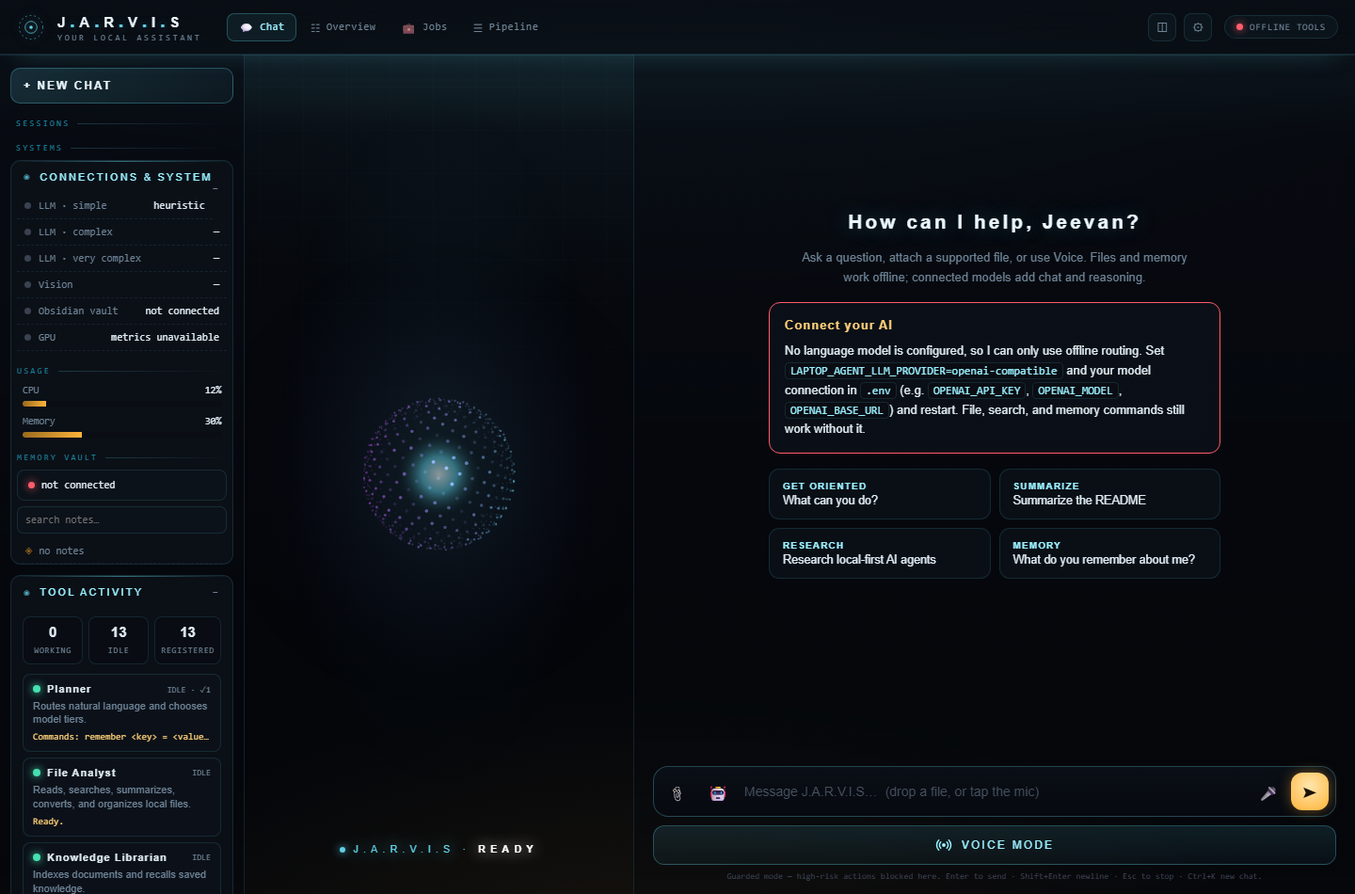
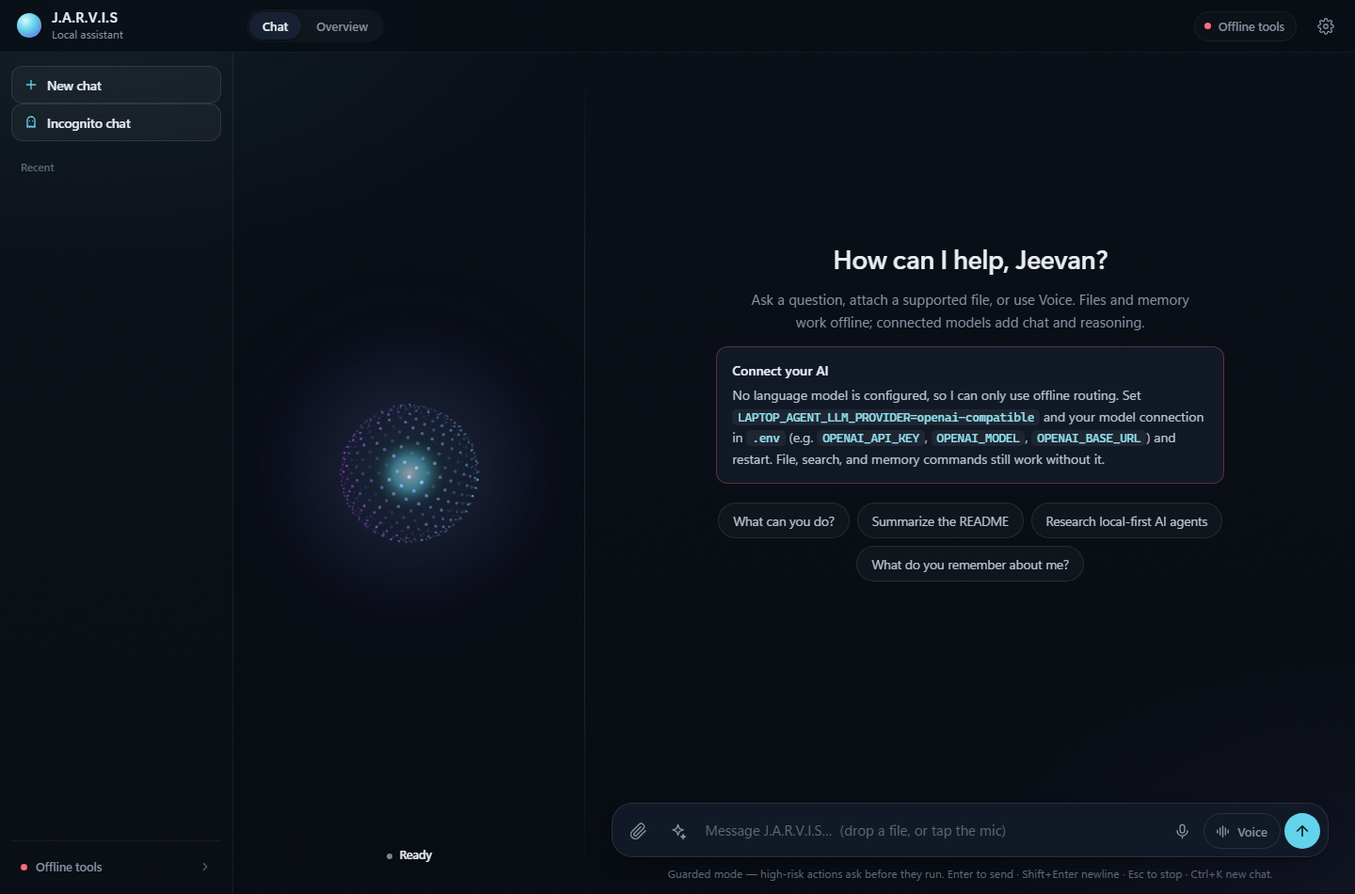
Stop the reply the moment you speak (#97)
Reported: saying "stop", or asking something else while J.A.R.V.I.S is speaking, does not
stop it. Two independent faults, both confirmed by driving the live page.

1. Talking could not interrupt AT ALL on this setup. `bargeStart` returned immediately
   whenever `useServerStt()` was true, and `setSttEngine` turns server STT on by default
   as soon as the server has an engine - which it does here (riva:parakeet). Server STT
   records rather than running the browser recognizer, so nothing was listening while we
   spoke. The gear note even promised "it cannot hear itself. Press Space to cut in."

   `serverBargeStart` holds the microphone open with echo cancellation while we speak,
   spends the first frames learning how loud our own output leaks through, and treats
   220ms of sustained sound above max(0.045, floor*2.2) as the user starting to talk. The
   capture keeps running through the interruption and is transcribed as the next turn, so
   the words said before the trigger are not lost - re-opening the mic swallowed them. On
   trigger it cancels speech inline rather than calling stopSpeaking(), which would tear
   down the very capture still recording the sentence. It also gives the pywebview window
   spoken barge-in, which it never had - there is no Web Speech API there.

2. Stopping stopped one sentence, not the answer. `stopSpeaking()` cleared the queue, but
   the turn was still streaming and every later `tts` event was enqueued and spoken.
[…]

diff --git a/src/laptop_agent/webui_page.py b/src/laptop_agent/webui_page.py
@@ -1549,8 +1549,10 @@ PAGE = r"""<!doctype html>
     let reply='', streamed='';
     const t0=performance.now(); let tFirst=0;
     currentAbort=new AbortController();currentRequest=crypto.randomUUID();
+    let myEpoch=ttsEpoch;                                // this turn's speech; a stop invalidates it
     try{
       const speakStream=voiceActive; if(speakStream)voiceTurnReset();
+      myEpoch=ttsEpoch;
       const r=await fetch('/api/stream',{method:'POST',headers:{'Content-Type':'application/json','X-Jarvis-Request':currentRequest},signal:currentAbort.signal,body:JSON.stringify({command:text,attachments:sent.map(a=>a.path),history,voice:speakStream})});
       if(!r.ok)throw new Error((await r.json()).message||'Request failed');
       const reader=r.body.getReader(), dec=new TextDecoder(); let buf='', done=null;
@@ -1563,7 +1565,7 @@ PAGE = r"""<!doctype html>
           let ev; try{ev=JSON.parse(line.slice(5).trim());}catch(e){continue;}
           if(ev.type==='token'){if(!tFirst)tFirst=performance.now();if(speakStream&&!streamed)vmark('reply');streamed+=ev.text;md.innerHTML=mdToHtml(streamed);chat.scrollTop=chat.scrollHeight;}
           else if(ev.type==='reset'){streamed='';md.innerHTML='';ttsQueue=[];}
-          else if(ev.type==='tts'){if(speakStream)enqueueTTS(ev.text);}
+          else if(ev.type==='tts'){if(speakStream&&myEpoch===ttsEpoch)enqueueTTS(ev.text);}
           else if(ev.type==='approval'){showApproval(ev.request);}
           else if(ev.type==='done'){if(speakStream)vmark('done');done=ev;}
         }
@@ -1589,7 +1591,7 @@ PAGE = r"""<!doctype html>
       if(err&&err.name==='AbortError'){reply=streamed;setMd(md,streamed||'_(stopped)_');const ss=s;if(ss&&streamed){ss.msgs.push({role:'bot',text:streamed,at:Date.now()});saveSessions();}}
       else{md.innerHTML='';node.classList.add('err');md.textContent='Connection error: '+err;}
     }
-    finally{currentAbort=null;currentRequest=null;setBusy(false);ta.focus();loadAgents();if(voiceActive)voiceTurnDone(reply);}
+    finally{currentAbort=null;currentRequest=null;setBusy(false);ta.focus();loadAgents();if(voiceActive)voiceTurnDone(reply,myEpoch);}
     return reply;
   }
 
@@ -2108,10 +2110,10 @@ PAGE = r"""<!doctype html>
   // API, so voice records audio and uses the server (/api/transcribe + /api/tts).
   const NATIVE=location.search.indexOf('app=1')>=0;
   // Server speech: record here, transcribe on the server (hosted Parakeet ~1s, or a local
-  // engine). More accurate than the browser recognizer and it cannot hear the reply,
-  // because the microphone is only open while we choose to record — but it gives up
-  // spoken barge-in, so Space and Interrupt are how you cut in. Off means the browser's
-  // own recognizer, which is flakier but can be interrupted by voice.
+  // engine). More accurate than the browser recognizer. It has no recognizer running while
+  // we speak, so spoken barge-in works on microphone *level* instead (serverBargeStart):
+  // the mic stays open with echo cancellation and sustained sound above our own leakage
+  // cuts the reply off. Space and Interrupt remain the guaranteed manual fallback.
   let typeAnim=true;
   try{typeAnim=localStorage.getItem('jarvis_typeanim')!=='off';}catch(e){}
   let sttServer=false, sttEngine=null;
@@ -2133,7 +2135,7 @@ PAGE = r"""<!doctype html>
     const note=document.getElementById('sttNote');
     if(note)note.textContent=NATIVE?'The app window always transcribes on the server.'
       :!sttEngine?'No server engine installed — using the browser recognizer.'
-      :sttServer?(sttEngine+' — accurate, and it cannot hear itself. Press Space to cut in.')
+      :sttServer?(sttEngine+' — accurate. Just start talking to cut in, or press Space.')
       :(sttEngine+' available. The browser recognizer is flakier but can be interrupted by voice.');
   }
   (function(){
@@ -2173,9 +2175,14 @@ PAGE = r"""<!doctype html>
   let recognizing=false, speaking=false;
   // streaming speech: sentences arrive as `tts` events mid-generation and are spoken
   // one at a time so the first sentence plays while the rest is still being written.
-  let ttsQueue=[], streamComplete=false, spokeAny=false;
+  // Bumped every time speech is stopped. A turn that is still streaming keeps sending
+  // `tts` events, and clearing the queue does not stop the next one arriving: pressing
+  // Space silenced the current sentence and then the reply carried straight on with the
+  // next. An event from a turn that was interrupted is dropped rather than spoken.
+  let ttsQueue=[], streamComplete=false, spokeAny=false, ttsEpoch=0;
   function voiceTurnReset(){ttsQueue=[];streamComplete=false;spokeAny=false;speaking=false;}   // no cancel(): Chrome drops the next speak() if cancel() ran just before it
-  function voiceTurnDone(reply){
+  function voiceTurnDone(reply,epoch){
+    if(epoch!==undefined&&epoch!==ttsEpoch)return;        // this turn was interrupted; do not speak its reply
     streamComplete=true;
     if(!spokeAny){ if(reply){enqueueTTS(reply);} else { afterTurn(); } }   // no streamed sentences (e.g. a tool result) — speak the whole reply
     else pumpTTS();                                                        // resume check in case the queue already drained
@@ -2187,7 +2194,7 @@ PAGE = r"""<!doctype html>
     if(!ttsQueue.length){if(streamComplete)afterTurn();return;}
     speakChunk(ttsQueue.shift());
   }
-  function afterTurn(){if(voiceActive)setTimeout(()=>{if(voiceActive&&!speaking&&!ttsQueue.length)listen();},500);else setCore('idle');}  // echo-guard delay
+  function afterTurn(){bargeStop();if(voiceActive)setTimeout(()=>{if(voiceActive&&!speaking&&!ttsQueue.length)listen();},500);else setCore('idle');}  // echo-guard delay; release the barge mic before listening reopens it
   // What is actually worth saying out loud. A picture, a link target or a code block has
   // nothing speakable in it, and reading a URL aloud used to feed a garbled "slash api
   // slash image question mark name equals…" back into the microphone — which the echo
@@ -2244,9 +2251,96 @@ PAGE = r"""<!doctype html>
     return true;
   }
   function bargeReset(){bargeOff=false;bargeCount=0;bargeWindow=performance.now();}
-  function bargeStop(){if(barge){try{barge.onresult=barge.onerror=barge.onend=null;barge.abort();}catch(e){}barge=null;}}
+  function bargeStop(){if(barge){try{barge.onresult=barge.onerror=barge.onend=null;barge.abort();}catch(e){}barge=null;}serverBargeStop();}
+
+  // --- barge-in when speech is transcribed on the server -----------------------------
+  // Server STT records rather than running the browser recognizer, so there is no
+  // recognizer listening while we speak and nothing could interrupt by voice at all —
+  // `bargeStart` used to return immediately whenever `useServerStt()` was true, which is
+  // the default as soon as the server has an engine. Listen for *energy* instead: hold the
+  // microphone open with echo cancellation while J.A.R.V.I.S talks, learn how loud our own
+  // output still leaks through, and treat sustained sound well above that as the user
+  // starting to speak. The capture keeps running through the interruption, so the words
+  // said before the trigger are transcribed too — otherwise re-opening the microphone
+  // swallowed the first half of the sentence.
+  let sBarge=null;
+  function serverBargeStop(){
+    if(!sBarge)return;
+    const s=sBarge; sBarge=null;
+    try{s.proc.onaudioprocess=null;s.proc.disconnect();}catch(e){}
+    try{s.src.disconnect();}catch(e){}
+    try{s.ac.close();}catch(e){}
+    try{s.stream.getTracks().forEach(t=>t.stop());}catch(e){}
+  }
+  async function serverBargeStart(){
+    if(sBarge||!voiceActive||bargeOff||!navigator.mediaDevices)return;
+    const generation=voiceGeneration;
+    let stream;
+    try{stream=await navigator.mediaDevices.getUserMedia({audio:{channelCount:1,echoCancellation:true,noiseSuppression:true,autoGainControl:true}});}
+    catch(e){return;}                                    // no microphone: Space and Interrupt still cut in
+    if(!voiceActive||generation!==voiceGeneration||!speaking){stream.getTracks().forEach(t=>t.stop());return;}
+    let ac;
+    try{ac=new (window.AudioContext||window.webkitAudioContext)();}
+    catch(e){stream.getTracks().forEach(t=>t.stop());return;}
+    const src=ac.createMediaStreamSource(stream), proc=ac.createScriptProcessor(4096,1,1), sink=ac.createGain();
+    sink.gain.value=0;                                   // a muted sink keeps the graph running without feedback
+    sBarge={stream,ac,src,proc};
+    barged=false;
+    const rate=ac.sampleRate||48000, MAX=rate*12;
+    const samples=[]; let held=0;
+    let floor=0.015, learned=0, loudMs=0, lastLoud=0, fired=false, firedAt=0;
+    const level=()=>Math.max(0.045,floor*2.2);           // never trust a threshold below room noise
+    const finishBarge=async()=>{
+      const chunks=samples.slice(); serverBargeStop();
+      if(!voiceActive||generation!==voiceGeneration)return;
+      vSet('thinking','Transcribing…');
+      let q='';
+      try{
+        const r=await fetch('/api/transcribe',{method:'POST',headers:{'Content-Type':'application/json'},
+          body:JSON.stringify({audio:encodeWavB64(flattenF32(chunks),rate),ext:'wav'})});
+        const d=await r.json(); q=(d.text||'').trim();
+      }catch(e){}
+      if(!voiceActive||generation!==voiceGeneration)return;
+      if(q.length<2||isEcho(q)){listen();return;}        // heard ourselves after all, or nothing usable
+      vtrans.textContent=q; vSet('thinking','Thinking');
+      send(q);
+    };
+    proc.onaudioprocess=e=>{
+      if(!sBarge)return;
+      const ch=e.inputBuffer.getChannelData(0);
+      samples.push(new Float32Array(ch)); held+=ch.length;
+      while(held>MAX&&samples.length>1){held-=samples[0].length;samples.shift();}
+      let peak=0;for(let i=0;i<ch.length;i+=4){const v=Math.abs(ch[i]);if(v>peak)peak=v;}
+      const now=performance.now();
+      if(!fired){
+        // The first frames are our own voice leaking past echo cancellation: measure it.
+        if(learned++<6){floor=Math.max(floor,peak);return;}
+        if(peak>level()){loudMs+=ch.length/rate*1000;lastLoud=now;}
+        else if(now-lastLoud>250)loudMs=0;               // a cough or a door is not a sentence
+        if(loudMs<220)return;
+        if(!bargeAllowed()){serverBargeStop();return;}
+        // Stop talking immediately. Not stopSpeaking(), which would tear down this very
+        // capture — the rest of what the user is saying still has to be recorded.
+        fired=true; barged=true; firedAt=now; lastLoud=now; ttsEpoch++;
+        try{speechSynthesis.cancel();}catch(_){}
+        try{if(activeAudio)activeAudio.pause();}catch(_){}
+        releaseAudio(); ttsQueue=[]; speaking=false; streamComplete=true;
+        if(busy)stopGen();
+        setCore('listening'); vSet('listening','Listening'); vtrans.textContent='Listening — go ahead';
+        return;
+      }
+      if(peak>level())lastLoud=now;
+      else if(now-lastLoud>1000)return finishBarge();     // ~1s of silence ends the sentence
+      if(now-firedAt>14000)finishBarge();                 // hard cap
+    };
+    try{src.connect(proc);proc.connect(sink);sink.connect(ac.destination);}
+    catch(e){serverBargeStop();}
+  }
+
   function bargeStart(){
-    if(!voiceActive||useServerStt()||!SR||bargeOff)return; bargeStop(); barged=false;
+    if(!voiceActive||bargeOff)return;
+    if(useServerStt()){serverBargeStart();return;}        // no recognizer to listen with — watch the microphone level
+    if(!SR)return; bargeStop(); barged=false;
     try{barge=new SR();}catch(e){return;}
     barge.lang='en-US';barge.interimResults=true;barge.continuous=true;
     barge.onresult=e=>{if(barged)return;let t='';for(let i=0;i<e.results.length;i++)t+=e.results[i][0].transcript;
@@ -2256,8 +2350,10 @@ PAGE = r"""<!doctype html>
     barge.onend=()=>{if(barge&&voiceActive&&speaking&&!barged){try{barge.start();}catch(e){}}};
     try{barge.start();}catch(e){}
   }
-  function stopSpeaking(){try{speechSynthesis.cancel();}catch(e){}ttsQueue=[];speaking=false;streamComplete=true;bargeStop();}
-  function interruptNow(){if(!voiceActive)return;bargeReset();stopSpeaking();vSet('listening','Listening');listen();}  // manual: stop speaking, listen (and trust the mic again)
+  function stopSpeaking(){ttsEpoch++;try{speechSynthesis.cancel();}catch(e){}try{if(activeAudio)activeAudio.pause();}catch(e){}releaseAudio();ttsQueue=[];speaking=false;streamComplete=true;bargeStop();}
+  // Manual cut-in: stop speaking AND stop generating, then listen. Without stopGen the
+  // reply kept being written server-side and its next sentence was spoken over the top.
+  function interruptNow(){if(!voiceActive)return;bargeReset();stopSpeaking();if(busy)stopGen();vSet('listening','Listening');listen();}
   function userInterrupt(q){if(!voiceActive)return;stopSpeaking();if(busy)stopGen();vSet('thinking','Thinking');setTimeout(()=>{if(voiceActive)send(q);},200);}  // spoken barge-in: abort any in-flight turn, then answer with context
   // --- voice timing HUD: marks where each turn spends time so latency is visible ---
   let vT0=0, vMarks=[];
@@ -2358,6 +2454,7 @@ PAGE = r"""<!doctype html>
   async function playTTS(text){
     const generation=voiceGeneration;
     speaking=true;
+    bargeStart();                                        // the app window can be interrupted by voice too
     const clean=speakable(text);
     if(!clean){speaking=false;pumpTTS();return;}
     rememberSpoken(clean);
@@ -2367,7 +2464,7 @@ PAGE = r"""<!doctype html>
       if(!r.ok)throw new Error('tts '+r.status);
       const bytes=await r.arrayBuffer();if(!voiceActive||generation!==voiceGeneration)return;
       releaseAudio();activeAudioURL=URL.createObjectURL(new Blob([bytes],{type:'audio/wav'}));const a=activeAudio=new Audio(activeAudioURL);
-      a.onended=a.onerror=()=>{releaseAudio();speechEndedAt=performance.now();speaking=false;pumpTTS();};
+      a.onended=a.onerror=()=>{if(barged)return;releaseAudio();speechEndedAt=performance.now();speaking=false;pumpTTS();};
       vmark('speak');await a.play();
     }catch(e){speaking=false;pumpTTS();}
   }
@@ -2386,8 +2483,10 @@ PAGE = r"""<!doctype html>
     if(voiceActive)vtrans.textContent=clean.slice(0,240);                  // static, readable subtitles
     u.onstart=()=>vmark('speak');
     u.onboundary=(e)=>{if(voiceActive&&e.charIndex!=null){const end=e.charIndex+(e.charLength||0);const start=Math.max(0,end-240);vtrans.textContent=(start>0?'…':'')+clean.slice(start,start+240);}};
-    u.onend=()=>{if(barged)return;bargeStop();speechEndedAt=performance.now();speaking=false;pumpTTS();};   // next sentence, or resume listening when the queue drains
-    u.onerror=()=>{if(barged)return;bargeStop();speechEndedAt=performance.now();speaking=false;pumpTTS();};
+    // Keep the server-mode barge microphone open across sentences: reopening it per
+    // sentence costs a getUserMedia round trip and leaves a deaf gap between them.
+    u.onend=()=>{if(barged)return;if(!useServerStt())bargeStop();speechEndedAt=performance.now();speaking=false;pumpTTS();};   // next sentence, or resume listening when the queue drains
+    u.onerror=()=>{if(barged)return;if(!useServerStt())bargeStop();speechEndedAt=performance.now();speaking=false;pumpTTS();};
     speechSynthesis.speak(u);
   }catch(e){bargeStop();speaking=false;pumpTTS();}}
 

diff --git a/tests/test_browser_regressions.py b/tests/test_browser_regressions.py
@@ -452,3 +452,104 @@ class BrowserRegressions(unittest.TestCase):
         self.assertFalse(outcome["userSpeech"], "the user's own interruption must get through")
         self.assertFalse(outcome["shortWord"], "a single word must not be eaten as echo")
         self.assertFalse(outcome["empty"])
+
+    def test_stopping_speech_stops_the_rest_of_the_answer(self):
+        """Pressing Space silenced the sentence being spoken and then carried straight on
+        with the next one: the turn was still streaming, and clearing the queue did nothing
+        about the `tts` events still arriving. Drives the real send() loop against a
+        synthetic stream, so the epoch gate in the shipped code is what is under test."""
+        outcome = self.page.evaluate(
+            """async () => {
+                const NL = String.fromCharCode(10);
+                const spoken = [];
+                speechSynthesis.speak = (u) => { spoken.push(u.text); setTimeout(() => { if (u.onend) u.onend(); }, 5); };
+                listen = () => {};                       // the microphone is not what this tests
+                let push = null, close = null;
+                const realFetch = window.fetch;
+                window.fetch = (url, opts) => {
+                    if (String(url).indexOf('/api/stream') >= 0) {
+                        const body = new ReadableStream({ start(c) {
+                            const enc = new TextEncoder();
+                            push = (ev) => c.enqueue(enc.encode('data: ' + JSON.stringify(ev) + NL + NL));
+                            close = () => { try { c.close(); } catch (e) {} };
+                        }});
+                        return Promise.resolve(new Response(body, { status: 200 }));
+                    }
+                    return realFetch(url, opts);
+                };
+                voiceActive = true;
+                const turn = send('explain csv files');
+                await new Promise(r => setTimeout(r, 200));
+                push({ type: 'tts', text: 'First sentence of the answer.' });
+                await new Promise(r => setTimeout(r, 200));
+                const beforeStop = spoken.length;
+
+                interruptNow();                          // Space / the Interrupt button
+
+                push({ type: 'tts', text: 'Second sentence that must never be spoken.' });
+                push({ type: 'tts', text: 'Third sentence that must never be spoken.' });
+                push({ type: 'done', ok: true, message: 'A whole reply that must not be spoken either.' });
+                close();
+                await new Promise(r => setTimeout(r, 400));
+                try { await turn; } catch (e) {}
+                await new Promise(r => setTimeout(r, 300));
+                window.fetch = realFetch; voiceActive = false;
+                return { beforeStop: beforeStop, after: spoken.length, spoken: spoken };
+            }"""
+        )
+        self.assertEqual(outcome["beforeStop"], 1, "the first sentence should have been spoken")
+        self.assertEqual(
+            outcome["after"], 1,
+            "speech continued after the stop: " + repr(outcome["spoken"]),
+        )
+
+    def test_server_speech_can_be_interrupted_by_talking(self):
+        """Server STT records instead of running the browser recognizer, so `bargeStart`
+        returned immediately whenever `useServerStt()` was true — which is the default as
+        soon as the server has an engine. Nothing could interrupt by voice at all. Barge-in
+        now watches the microphone level, learning how loud our own output leaks past echo
+        cancellation before treating anything as the user."""
+        outcome = self.page.evaluate(
+            """async () => {
+                const FRAME = 4096, RATE = 48000;
+                navigator.mediaDevices.getUserMedia = async () => ({ getTracks: () => [{ stop() {} }] });
+                let proc = null;
+                window.AudioContext = function () {
+                    this.sampleRate = RATE;
+                    this.createMediaStreamSource = () => ({ connect() {}, disconnect() {} });
+                    this.createGain = () => ({ gain: { value: 0 }, connect() {}, disconnect() {} });
+                    this.createScriptProcessor = () => { proc = { onaudioprocess: null, connect() {}, disconnect() {} }; return proc; };
+                    this.close = () => {};
+                };
+                window.webkitAudioContext = window.AudioContext;
+                const feed = (peak, frames) => {
+                    for (let i = 0; i < frames; i++) {
+                        const ch = new Float32Array(FRAME);
+                        for (let j = 0; j < FRAME; j++) ch[j] = (j % 2) ? peak : -peak;
+                        proc.onaudioprocess({ inputBuffer: { getChannelData: () => ch } });
+                    }
+                };
+                sttServer = true; sttChosen = true; sttEngine = 'test-engine';   // the server-STT path
+                voiceActive = true; speaking = true; bargeReset();
+                bargeStart();
+                await new Promise(r => setTimeout(r, 60));
+                const armed = !!proc;
+                if (!armed) { voiceActive = false; speaking = false;
+                    return { armed: false, heldThroughOurOwnVoice: false, stopped: false }; }
+                const epoch0 = ttsEpoch;
+                feed(0.02, 6);                       // our own voice, learned as the floor
+                feed(0.02, 6);                       // still only us: must not trigger
+                const heldThroughOurOwnVoice = (ttsEpoch === epoch0 && speaking === true);
+                feed(0.35, 4);                       // the user starts talking
+                const stopped = (ttsEpoch > epoch0 && speaking === false);
+                try { bargeStop(); } catch (e) {}
+                voiceActive = false; speaking = false;
+                return { armed: armed, heldThroughOurOwnVoice: heldThroughOurOwnVoice, stopped: stopped };
+            }"""
+        )
+        self.assertTrue(outcome["armed"], "barge-in never armed in server-STT mode")
+        self.assertTrue(
+            outcome["heldThroughOurOwnVoice"],
+            "our own speech leaking into the mic triggered a barge-in",
+        )
+        self.assertTrue(outcome["stopped"], "talking over the reply did not stop it")

diff --git a/CLAUDE.md b/CLAUDE.md
@@ -536,6 +536,29 @@ for 400ms, and a third spoken interruption inside 25s turns spoken barge-in off 
 session. With open speakers full duplex is never fully reliable; Space and Interrupt are the
 manual fallback.
 
+**Stopping has to stop the turn, not just the sentence.** `stopSpeaking()` cleared the queue
+but the request was still streaming, and every later `tts` event was enqueued and spoken —
+so pressing Space silenced one sentence and the reply carried straight on with the next.
+Two things fix it and both are needed: `interruptNow()` now calls `stopGen()` as well (the
+spoken-barge-in path always did; the manual one never did), and a `ttsEpoch` counter,
+bumped by every stop, is captured when a turn starts streaming — `tts` events and
+`voiceTurnDone` from a superseded turn are dropped instead of spoken.
+
+**Barge-in in server-STT mode listens to level, not words.** `bargeStart` used to return
+immediately when `useServerStt()` was true, and since `setSttEngine` turns server STT on by
+default as soon as the server has an engine, *talking could not interrupt at all* — the gear
+note even promised "it cannot hear itself. Press Space to cut in." `serverBargeStart` now
+holds the microphone open (echoCancellation + noiseSuppression + autoGainControl) while
+J.A.R.V.I.S speaks, spends the first ~6 frames learning how loud our own output still leaks
+through, and treats **220ms of sustained sound above `max(0.045, floor*2.2)`** as the user.
+On trigger it cancels speech, clears the queue, bumps `ttsEpoch` and calls `stopGen()` —
+deliberately *not* `stopSpeaking()`, which would tear down the very capture still recording
+the rest of the sentence. The capture keeps running and is transcribed as the next turn, so
+the words said before the trigger are not lost (re-opening the mic swallowed them). It
+reuses the same three-strikes protection, and it works in the pywebview window too, which
+has no Web Speech API at all. The 0.045 floor is the one number worth re-tuning from real
+rooms: too low and the app hears itself, too high and a quiet voice cannot cut in.
+
 ## Running it
 
 ```powershell
@@ -596,8 +619,8 @@ falls back to `OPENAI_API_KEY`). It takes PCM WAV only, so `auto` skips it for o
 and a failed cloud call falls through to a local engine — losing the network costs quality,
 not the transcription. `/api/health` reports the chosen engine as `stt.engine`, and the web
 page uses that to record-and-post instead of trusting the browser's recognizer (a gear
-toggle overrides; server speech gives up spoken barge-in, since the recorder owns the mic,
-so Space/Interrupt cut in). The two local engines:
+toggle overrides; server speech has no recognizer running while we talk, so it barges in on
+microphone **level** instead — see below). The two local engines:
 **Vosk** (lightweight — ~50MB model, no PyTorch/ffmpeg; reads the 16kHz mono WAV the
 browser encodes via Web Audio) and **Whisper** (accurate, heavy). `auto` prefers Vosk
 when a model is present in `models/` (or `VOSK_MODEL`), else Whisper. `build_app_small.ps1`
